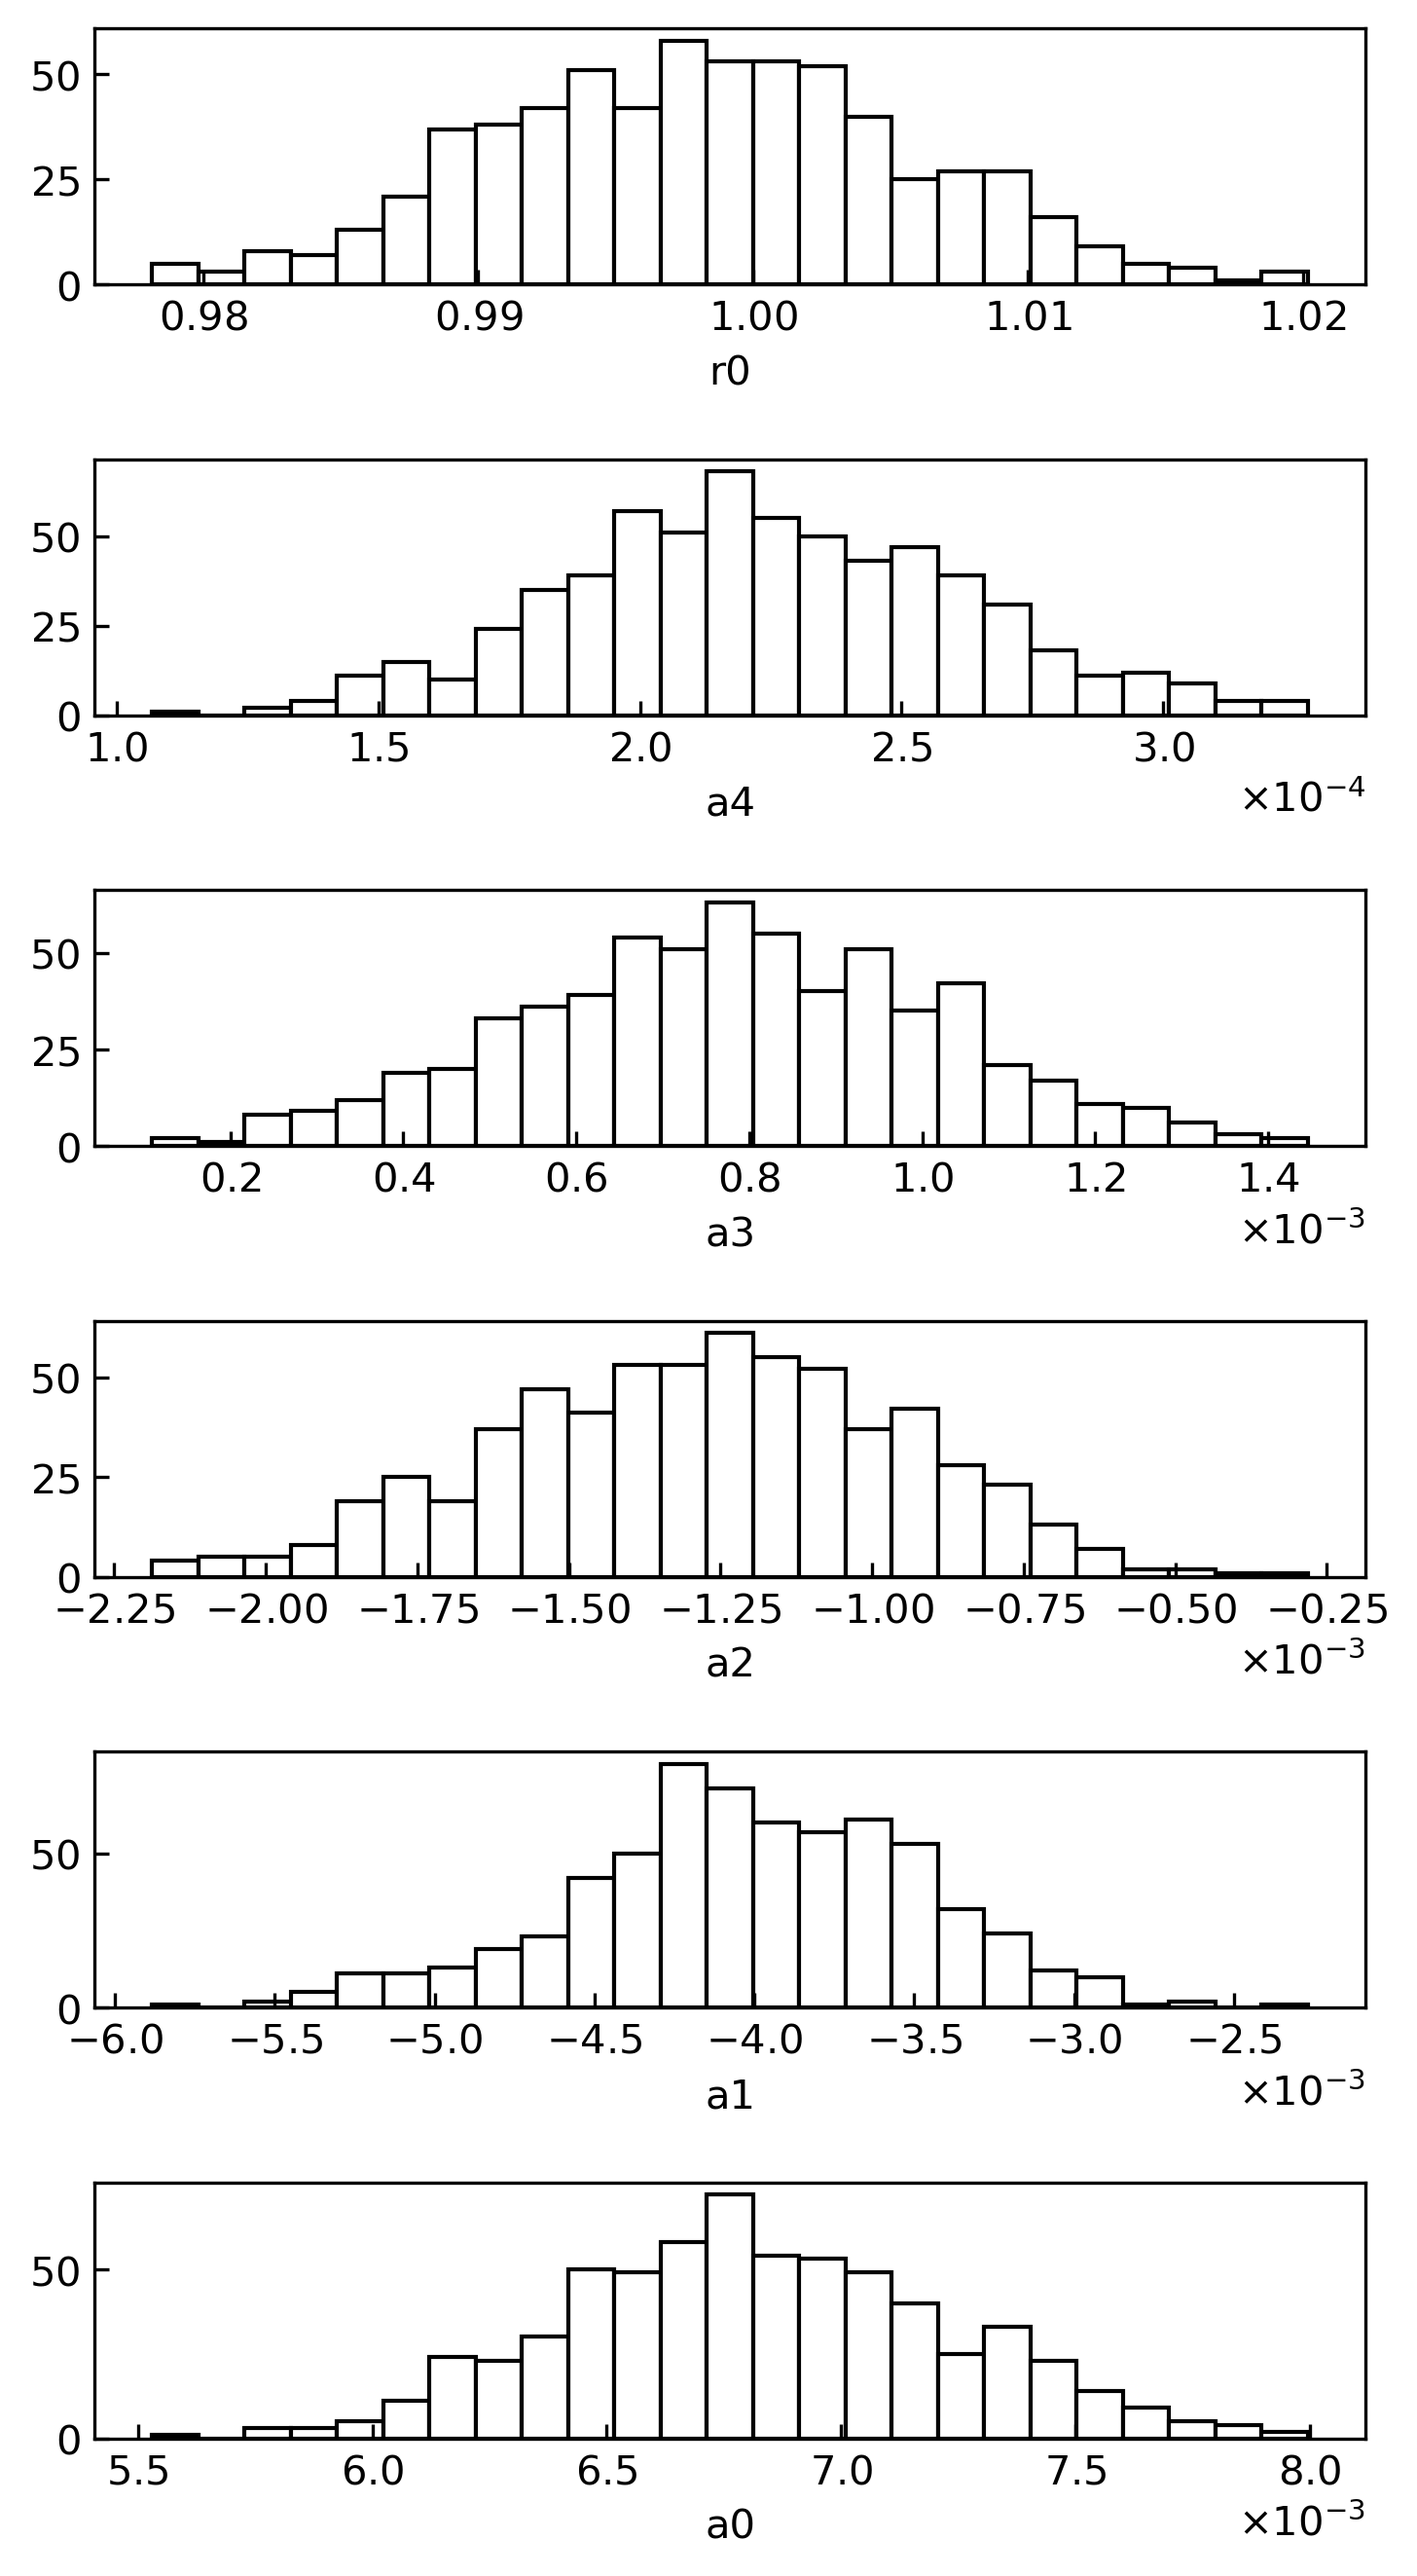
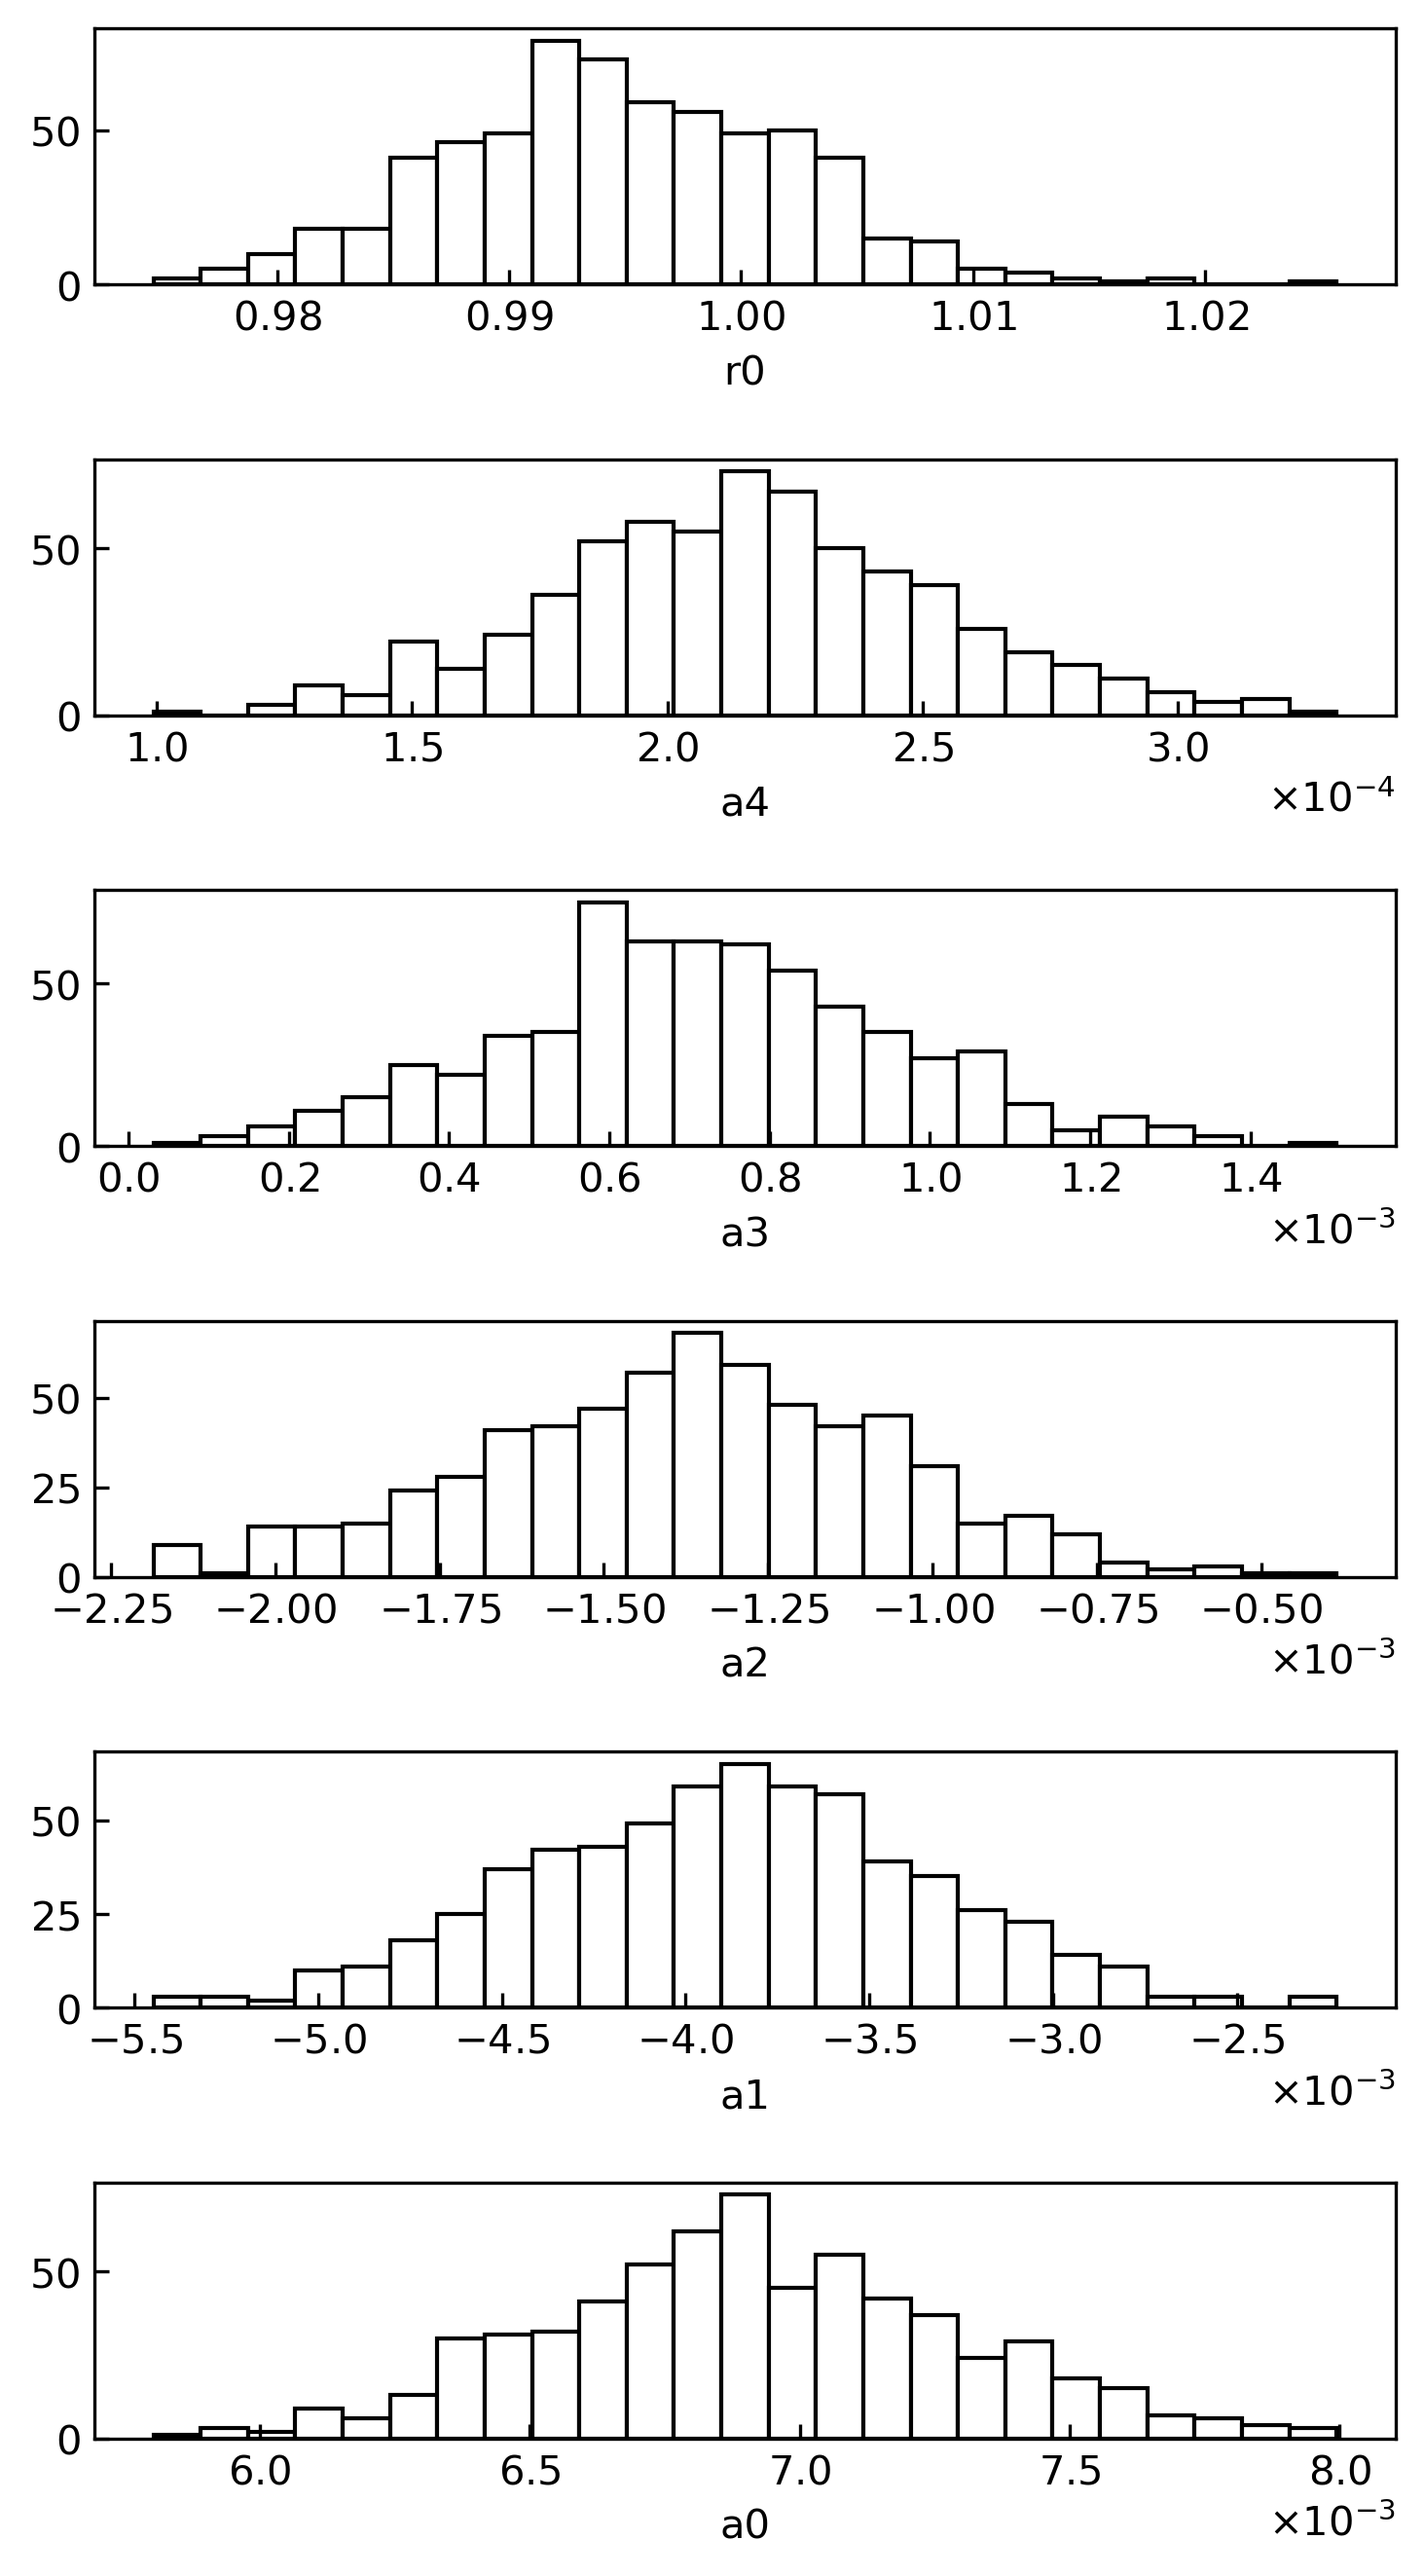
Add methods to get parameter and model statistics

diff --git a/src/bisip/models.py b/src/bisip/models.py
@@ -4,26 +4,27 @@
 # @Date:   05-03-2020
 # @Email:  charles@goldspot.ca
 # @Last modified by:   charles
-# @Last modified time: 2020-03-06T09:20:50-05:00
+# @Last modified time: 2020-03-06T12:31:21-05:00
 
 
 import emcee
 import numpy as np
+
 from .cython_funcs import Decomp_cyth
 from . import utils
 from . import plotlib
 
 
 def log_likelihood(theta, model, x, y, yerr):
-    # sigma2 = yerr ** 2 + model(theta, x) ** 2 * np.exp(2 * theta[1])
     sigma2 = yerr**2
-    return -0.5 * np.sum((y - model(theta, x)) ** 2 / sigma2 + np.log(sigma2))
+    return -0.5 * np.sum((y - model(theta, x))**2 / sigma2 + 2*np.log(sigma2))
 
 
 def log_prior(theta, bounds):
-    if (bounds[0] < theta).all() and (theta < bounds[1]).all():
+    if not ((bounds[0] < theta).all() and (theta < bounds[1]).all()):
+        return -np.inf
+    else:
         return 0.0
-    return -np.inf
 
 
 def log_probability(theta, model, bounds, x, y, yerr):
@@ -35,13 +36,24 @@ def log_probability(theta, model, bounds, x, y, yerr):
 
 class Inversion(object):
 
+    # Public plotting methods
     plot_traces = plotlib.plot_traces
     plot_histograms = plotlib.plot_histograms
     plot_fit = plotlib.plot_fit
 
-    def __init__(self, pool=None, moves=None):
+    # Private utility methods
+    _parse_chain = utils.parse_chain
+
+    def __init__(self, nwalkers=32, nsteps=5000, pool=None, moves=None):
+        self.nsteps = nsteps
+        self.nwalkers = nwalkers
         self.pool = pool
         self.moves = moves
+        # self.infer_obs_noise = infer_obs_noise
+
+        self.params = {}
+        # if infer_obs_noise:
+        #     self.params.update({'log_noise': [0.0, 1.0]})
 
     def _start_sampling(self, **kwargs):
         self.ndim = self.bounds.shape[1]
@@ -61,26 +73,42 @@ class Inversion(object):
     def get_chain(self, **kwargs):
         return self.sampler.get_chain(**kwargs)
 
-    def get_model_percentile(self, chain, p):
+    def get_model_percentile(self, p, chain=None, **kwargs):
+        chain = self._parse_chain(chain, **kwargs)
         results = np.empty((chain.shape[0], 2, self.data['N']))
         for i in range(chain.shape[0]):
             results[i] = self.forward(chain[i], self.data['w'])
         return np.percentile(results, p, axis=0)
 
+    def get_param_percentile(self, p, chain=None, **kwargs):
+        chain = self._parse_chain(chain, **kwargs)
+        return np.percentile(chain, p, axis=0)
+
+    def get_param_mean(self, chain=None, **kwargs):
+        chain = self._parse_chain(chain, **kwargs)
+        return np.mean(chain, axis=0)
+
+    def get_param_std(self, chain=None, **kwargs):
+        chain = self._parse_chain(chain, **kwargs)
+        return np.std(chain, axis=0)
+
+    @property
+    def param_names(self):
+        return list(self.params.keys())
+
 
 class PolynomialDecomposition(Inversion):
 
-    def __init__(self, nwalkers=32, poly_deg=5, c_exp=1.0, nsteps=5000):
-        super().__init__()
+    def __init__(self, poly_deg=5, c_exp=1.0, **kwargs):
+        super().__init__(**kwargs)
         self.c_exp = c_exp
-        self.nsteps = nsteps
-        self.nwalkers = nwalkers
         self.poly_deg = poly_deg
 
     def forward(self, theta, w):
-        rho, *a = theta
-        a = np.array(a)
-        return Decomp_cyth(w, self.taus, self.log_taus, self.c_exp, rho, a)
+        # rho, *a = theta
+        # a = np.array(a)
+        return Decomp_cyth(w, self.taus, self.log_taus, self.c_exp,
+                           R0=theta[0], a=theta[1:])
 
     def fit(self, filepath, **data_kwargs):
         self.data = utils.load_data(filepath, **data_kwargs)
@@ -95,10 +123,10 @@ class PolynomialDecomposition(Inversion):
         self.log_taus = np.array([self.log_tau**i for i in rev_deg_range])
         self.taus = 10**self.log_tau  # Accelerates sampling
 
-        params = {'r0': [0.9, 1.1]}
-        params.update({f'a{x}': [-1, 1] for x in rev_deg_range})
+        # Add polynomial decomposition parameters to dict
+        self.params.update({'r0': [0.9, 1.1]})
+        self.params.update({f'a{x}': [-1, 1] for x in rev_deg_range})
 
-        self.bounds = np.array([params[x] for x in params.keys()]).T
-        self.params = params
+        self.bounds = np.array([self.params[x] for x in self.params.keys()]).T
 
         self._start_sampling(pool=self.pool, moves=self.moves)

diff --git a/src/bisip/plotlib.py b/src/bisip/plotlib.py
@@ -4,52 +4,32 @@
 # @Date:   05-03-2020
 # @Email:  charles@goldspot.ca
 # @Last modified by:   charles
-# @Last modified time: 2020-03-06T09:40:24-05:00
+# @Last modified time: 2020-03-06T12:34:51-05:00
 
 
-import numpy as np
 import matplotlib.pyplot as plt
-
-
-def parse_chain(model, chain, **kwargs):
-    if chain is None:
-        # if discard is not None and thin is not None:
-        kwargs['flat'] = True
-        chain = model.get_chain(**kwargs)
-
-    else:
-        if chain.ndim > 2:
-            raise ValueError('Flatten chain by passing to plot_fit().')
-
-        if 'discard' in kwargs or 'thin' in kwargs:
-            raise ValueError('Please pass either a chain obtained with '
-                             'the get_chain() method or pass '
-                             'discard and thin keywords to plot_fit(). '
-                             'Do not pass both arguments.')
-    return chain
 
 
 def plot_traces(model, chain=None, **kwargs):
     if chain is None:
         chain = model.get_chain(**kwargs)
-    labels = list(model.params.keys())
+    labels = model.param_names
     fig, axes = plt.subplots(model.ndim, figsize=(10, 7), sharex=True)
     for i in range(model.ndim):
         ax = axes[i]
         ax.plot(chain[:, :, i], 'k', alpha=0.3)
         ax.set_xlim(0, len(chain))
+        ax.set_ylim(model.bounds[0, i], model.bounds[1, i])
         ax.set_ylabel(labels[i])
         ax.yaxis.set_label_coords(-0.1, 0.5)
     axes[-1].set_xlabel('Steps')
     fig.tight_layout()
-
     return fig
 
 
 def plot_histograms(model, chain=None, bins=25, **kwargs):
-
-    chain = parse_chain(model, chain, **kwargs)
-    labels = list(model.params.keys())
+    chain = model._parse_chain(chain, **kwargs)
+    labels = model.param_names
     fig, axes = plt.subplots(model.ndim, figsize=(5, 1.5*chain.shape[1]))
     for i in range(model.ndim):
         ax = axes[i]
@@ -57,16 +37,12 @@ def plot_histograms(model, chain=None, bins=25, **kwargs):
         ax.set_xlabel(labels[i])
         ax.ticklabel_format(axis='x', scilimits=[-2, 2])
     fig.tight_layout()
-
     return fig
 
 
 def plot_fit(model, chain=None, p=[2.5, 50, 97.5], **kwargs):
-
-    chain = parse_chain(model, chain, **kwargs)
     data = model.data
-    lines = model.get_model_percentile(chain, p)
-
+    lines = model.get_model_percentile(p, chain, **kwargs)
     fig, ax = plt.subplots(2, 1, figsize=(4, 5), sharex=True)
     for i in range(2):
         ax[i].errorbar(data['freq'], data['zn'][i], yerr=data['zn_err'][i],
@@ -76,9 +52,7 @@ def plot_fit(model, chain=None, p=[2.5, 50, 97.5], **kwargs):
         ax[i].plot(data['freq'], lines[2][i], ls=':', c='0.5')
         ax[i].set_ylabel(r'$\rho${} (normalized)'.format((i+1)*"'"))
         ax[i].yaxis.set_label_coords(-0.2, 0.5)
-
     ax[-1].set_xscale('log')
     ax[-1].set_xlabel('$f$ (Hz)')
     fig.tight_layout()
-
     return fig

diff --git a/tests.py b/tests.py
@@ -4,7 +4,7 @@
 # @Date:   05-03-2020
 # @Email:  charles@goldspot.ca
 # @Last modified by:   charles
-# @Last modified time: 2020-03-06T09:41:30-05:00
+# @Last modified time: 2020-03-06T12:36:16-05:00
 
 
 from os.path import expanduser
@@ -16,18 +16,20 @@ from src.bisip.models import PolynomialDecomposition
 
 HOME = expanduser("~")
 
-model = PolynomialDecomposition(nwalkers=32, poly_deg=4, c_exp=1.0, nsteps=500)
+model = PolynomialDecomposition(nwalkers=32, poly_deg=4, c_exp=1.0, nsteps=1000)
 
 fp = f'{HOME}/Repositories/bisip/data files/SIP-K389175_avg.dat'
 model.fit(fp)
 
-# fig = model.plot_traces()
-# fig.savefig('./figures/traces.png', dpi=300, bbox_inches='tight')
+fig = model.plot_traces()
+fig.savefig('./figures/traces.png', dpi=144, bbox_inches='tight')
 
-chain = model.get_chain(discard=300, thin=10, flat=True)
+chain = model.get_chain(discard=300, thin=30, flat=True)
 
 # fig = model.plot_histograms(chain=chain)
-# fig.savefig('./figures/histograms.png', dpi=300, bbox_inches='tight')
-#
+# fig.savefig('./figures/histograms.png', dpi=144, bbox_inches='tight')
 fig = model.plot_fit(chain)
-fig.savefig('./figures/fitted.png', dpi=300, bbox_inches='tight')
+fig.savefig('./figures/fitted.png', dpi=144, bbox_inches='tight')
+# model.get_model_percentile(chain)
+
+# model.get_param_percentile(chain, [2.5, 50, 97.5])

diff --git a/src/bisip/utils.py b/src/bisip/utils.py
@@ -3,11 +3,36 @@
 # @Author: cberube
 # @Date:   05-03-2020
 # @Email:  charles@goldspot.ca
-# @Last modified by:   cberube
-# @Last modified time: 05-03-2020
+# @Last modified by:   charles
+# @Last modified time: 2020-03-06T10:45:21-05:00
 
+
+import warnings
 
 import numpy as np
+
+
+def parse_chain(self, chain, **kwargs):
+    if chain is None:
+        # if discard is not None and thin is not None:
+        kwargs['flat'] = True
+        chain = self.get_chain(**kwargs)
+        if 'discard' not in kwargs and 'thin' not in kwargs:
+            warnings.warn(('No samples were discarded from the chain.\n'
+                           'Pass discard and thin keywords to remove '
+                           'burn-in samples and reduce autocorrelation.'),
+                          UserWarning)
+
+    else:
+        if chain.ndim > 2:
+            raise ValueError('Flatten chain by passing flat=True.')
+
+        if 'discard' in kwargs or 'thin' in kwargs:
+            raise ValueError('Please pass either a chain obtained with '
+                             'the get_chain() method or pass '
+                             'discard and thin keywords to parse '
+                             'the full chain. Do not pass both.')
+    return chain
 
 
 def load_data(filename, headers=1, ph_units='mrad'):

diff --git a/readme.md b/readme.md
@@ -42,7 +42,7 @@ model.fit(filepath)
 ```
 ```
 Out:
-100%|██████████| 5000/5000 [00:09<00:00, 512.08it/s]
+100%|██████████| 1000/1000 [00:01<00:00, 558.64it/s]
 ```
 
 ```python
@@ -61,7 +61,7 @@ fig = model.plot_traces()
 # Thin the chain by selecting every <thin> steps
 # Flatten the walkers into a single chain
 chain = model.get_chain(discard=300,
-                        thin=10,
+                        thin=30,
                         flat=True)
 
 # Plot the model against the data for
